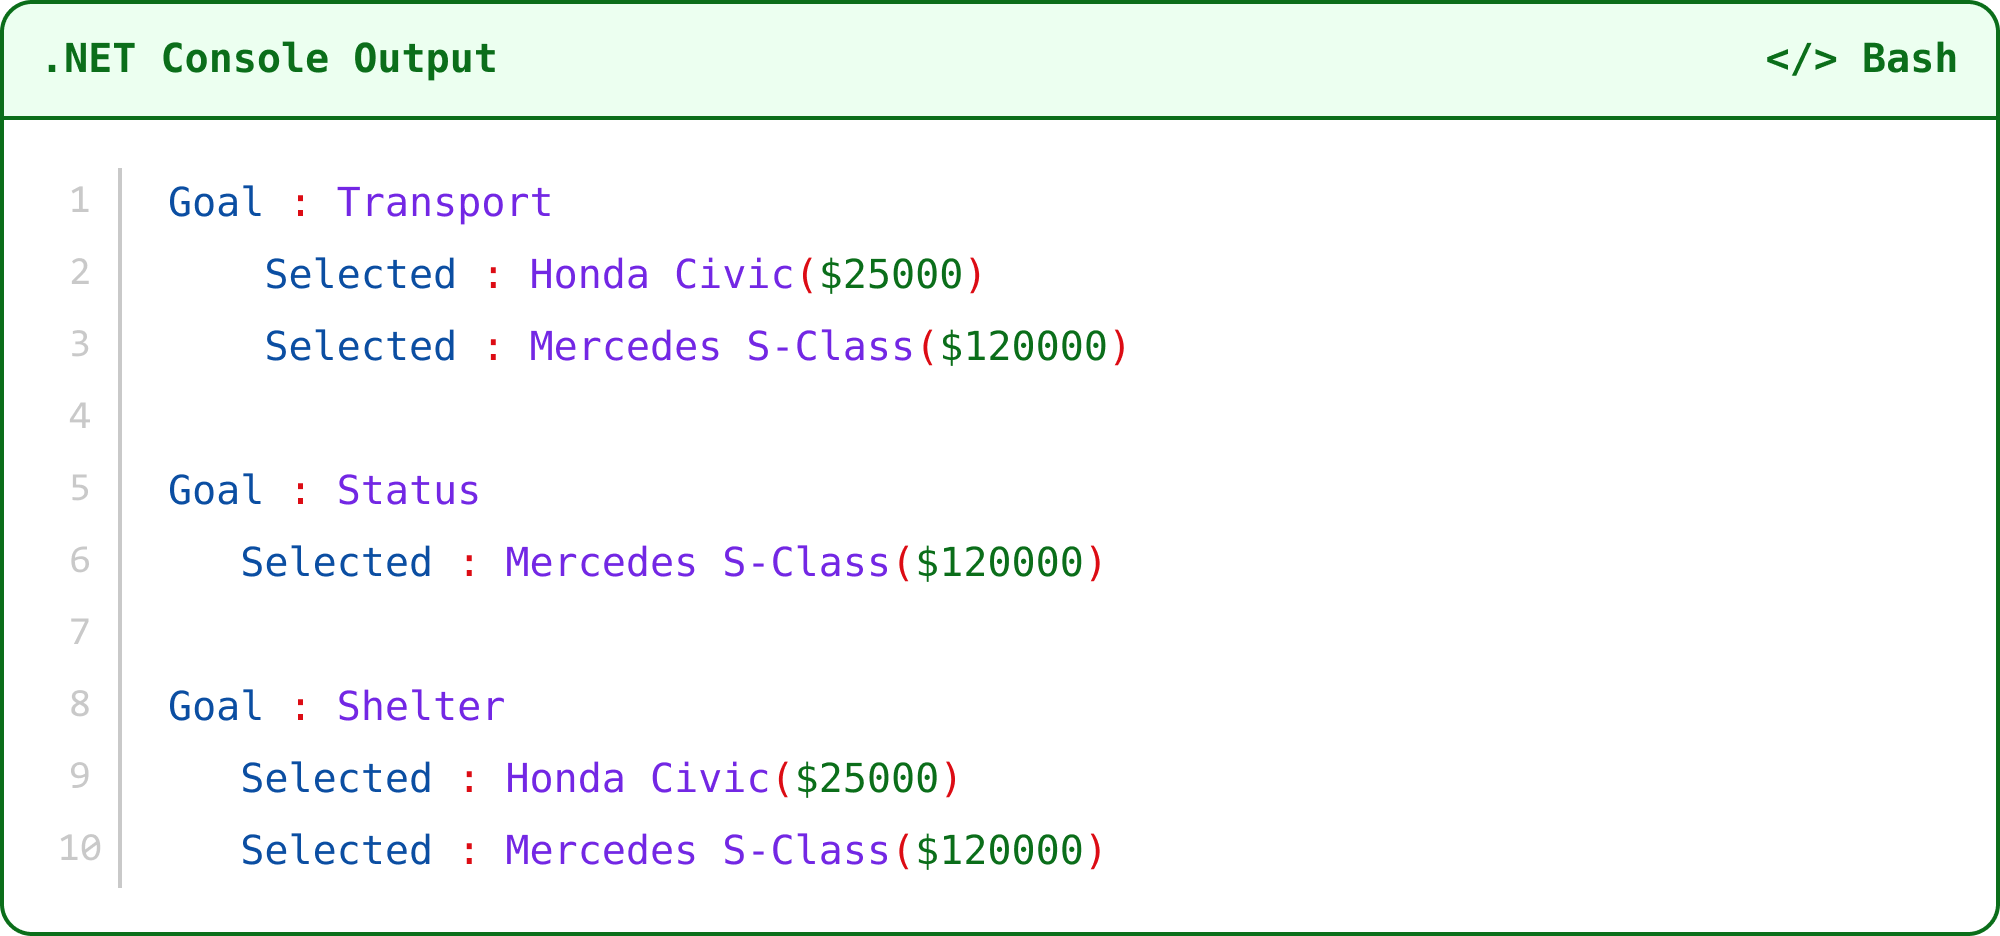
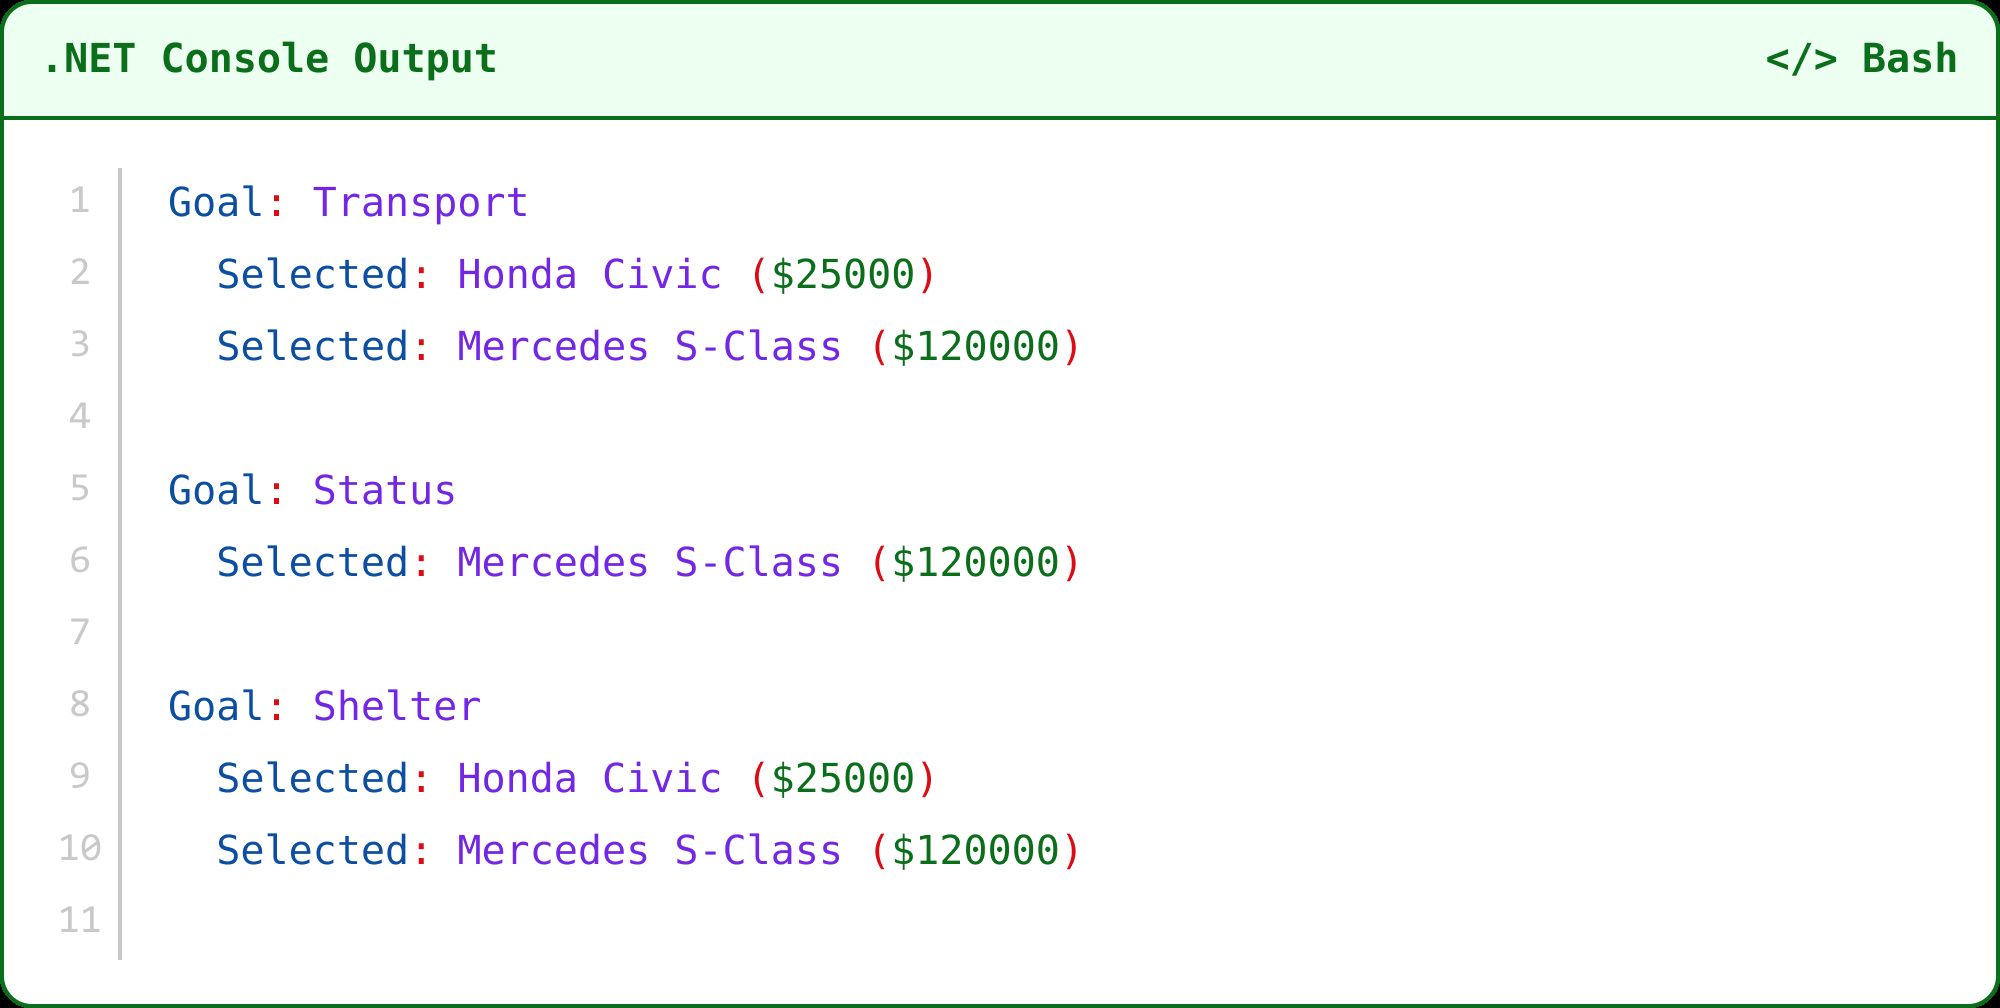
Appendix C Project 5: build step, README, figures match real output

diff --git a/book/appendices/appendix-c.md b/book/appendices/appendix-c.md
@@ -256,9 +256,19 @@ The UML object diagrams show how the same objects participate differently under 
 
 In Project 5, the code applies multiple goals sequentially to the same set of objects. Each goal evaluates the objects according to its own constraint. The objects do not change. Only their participation in the selected set changes. The README for Project 5 provides the canonical run command and expected output.
 
+After navigating to the folder containing the project, build it:
+
+<img src="../../assets/figures/appendix-c/figure-32-build.png" alt="Console command: dotnet build MultiConceptDemo" />
+
+<p align="center"><ins>Project 5 Build Command</ins></p>
+
+Then run it:
+
 <img src="../../assets/figures/appendix-c/figure-32.png" />
 
 <p align="center"><ins>Project 5 Run Commands</ins></p>
+
+Each goal evaluates the same two cars in turn and lists the cars it selects:
 
 <img src="../../assets/figures/appendix-c/figure-33.png" />
 

diff --git a/code/appendix-c/project-5/README.md b/code/appendix-c/project-5/README.md
@@ -2,9 +2,15 @@ Instructions for general environment setup can be found in: *How to Run the Code
 
 This README is the canonical source for the exact command and expected output for Appendix C, Project 5.
 
-## Run Command
+## Build Command
 
-Run from inside the `Project_5` folder.
+Run from inside the `project-5` folder.
+
+```bash
+dotnet build MultiConceptDemo
+```
+
+## Run Command
 
 ```bash
 dotnet run --project MultiConceptDemo
@@ -23,4 +29,5 @@ Goal: Status
 Goal: Shelter
   Selected: Honda Civic ($25000)
   Selected: Mercedes S-Class ($120000)
+
 ```
